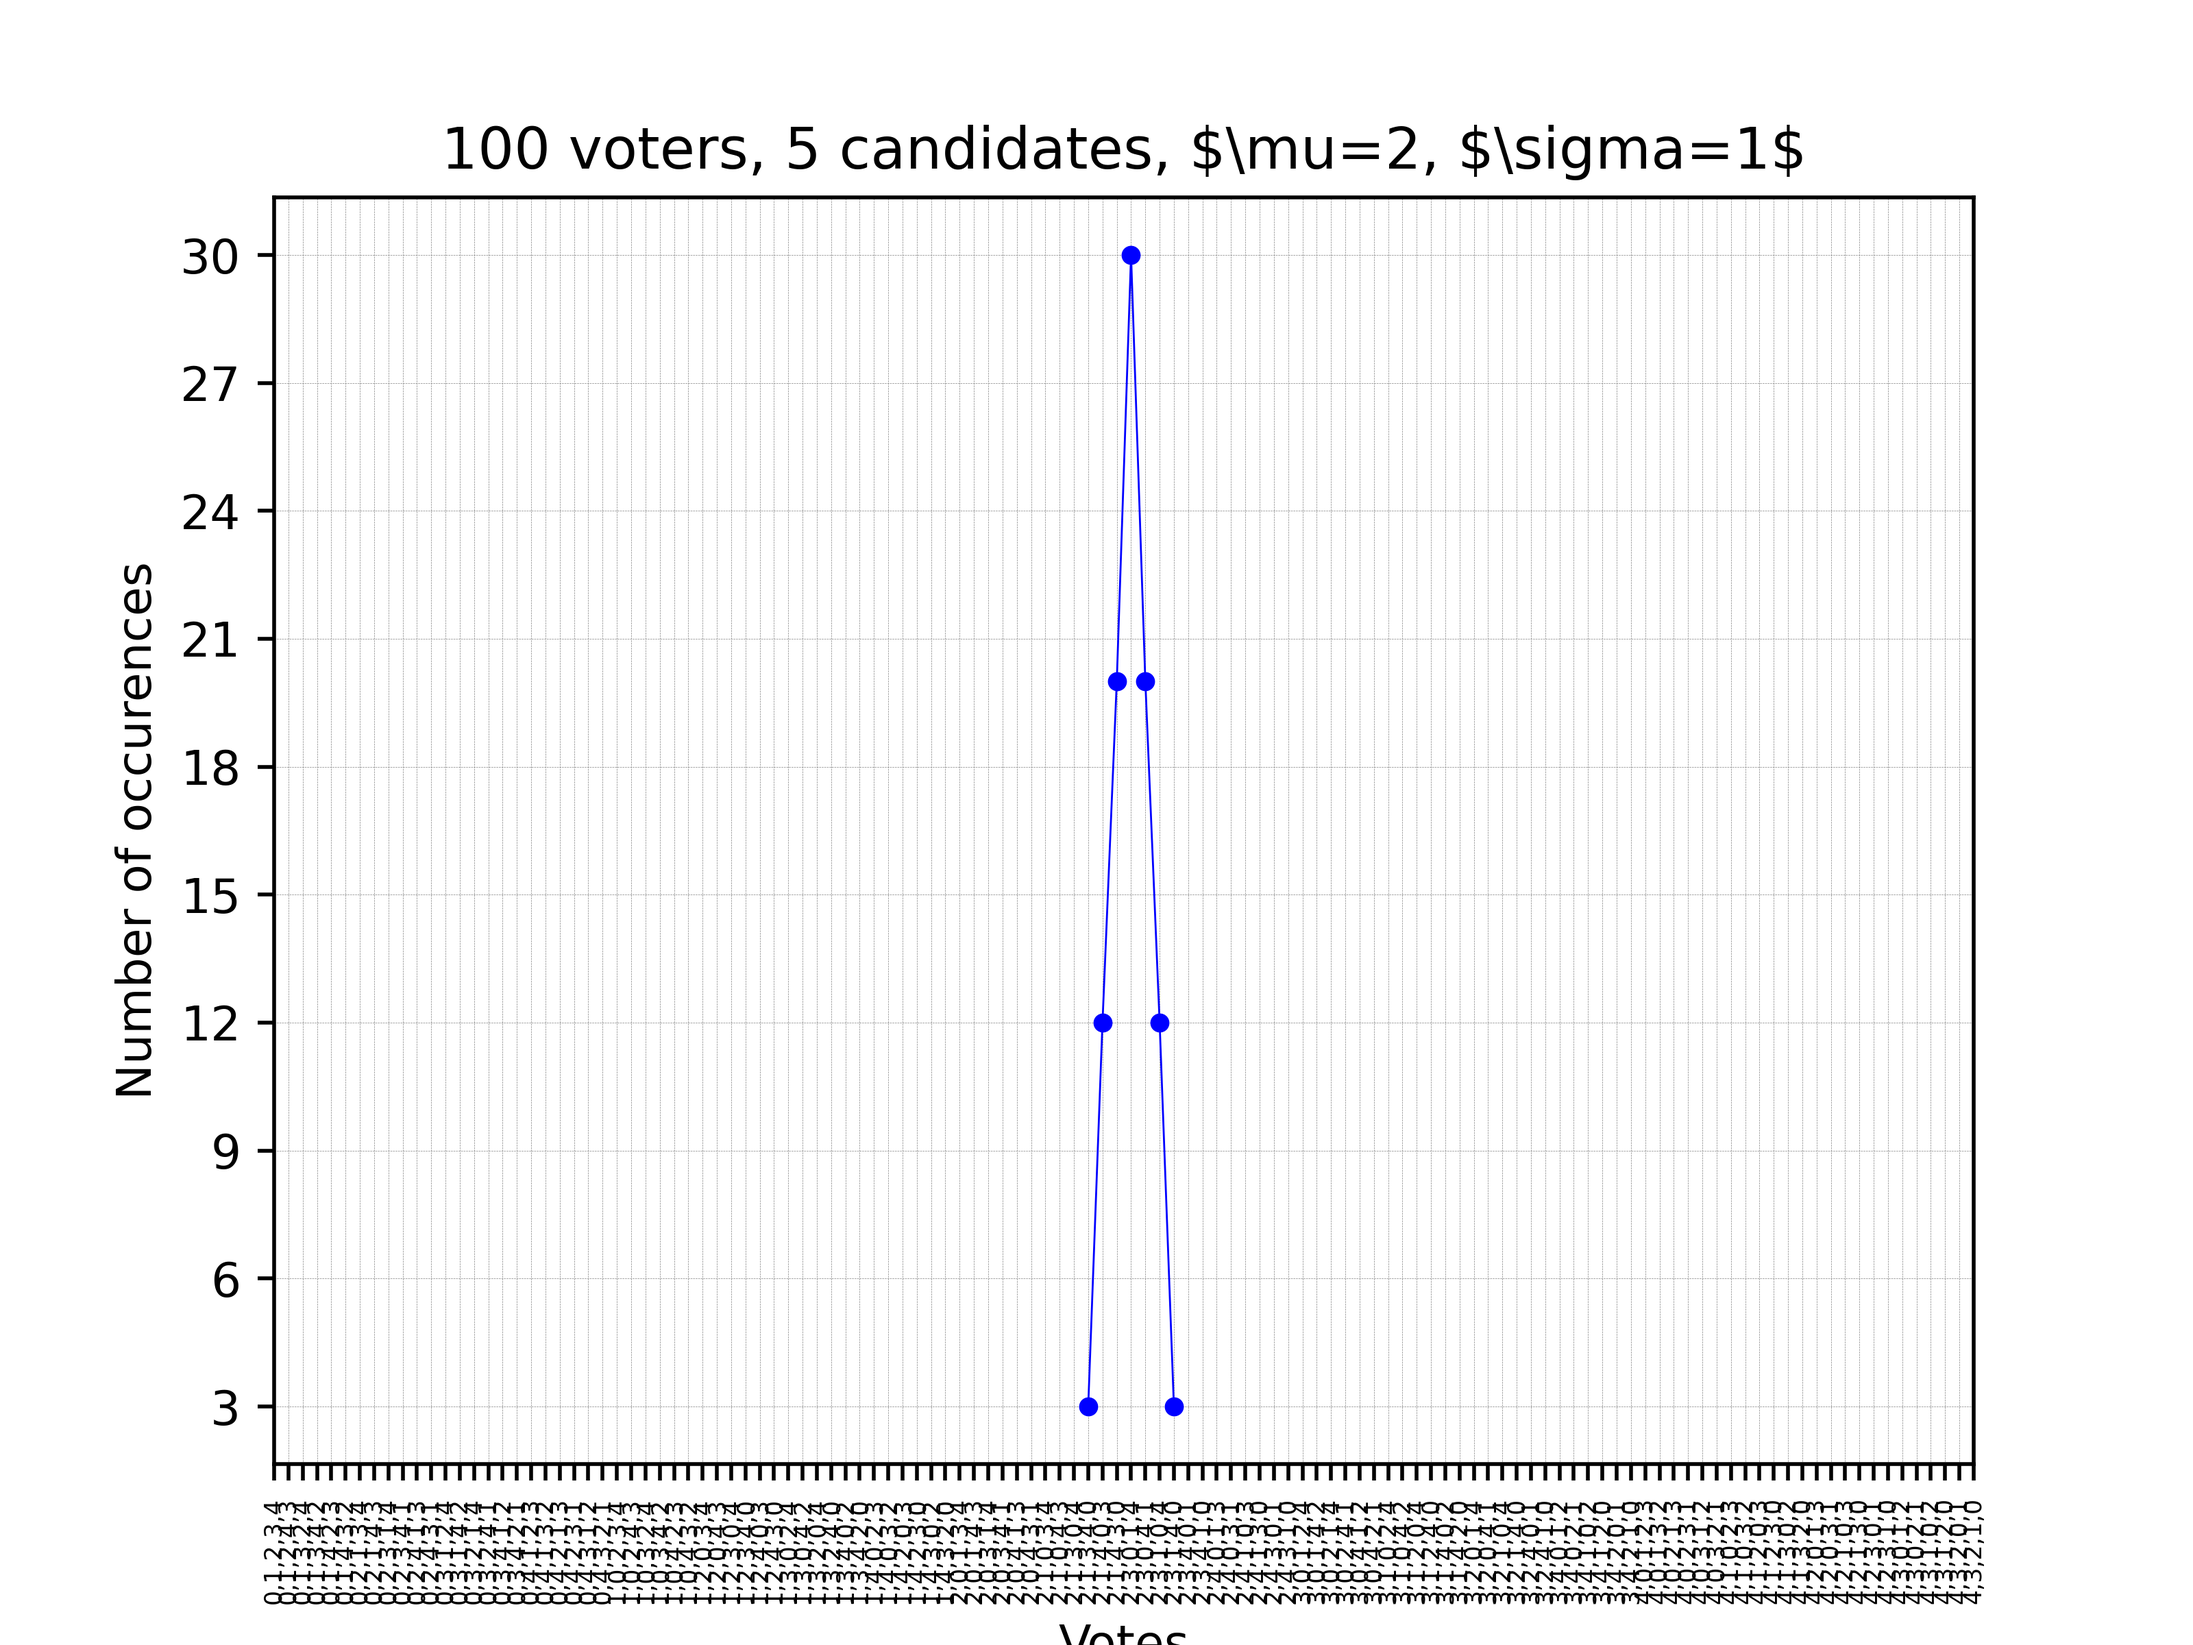
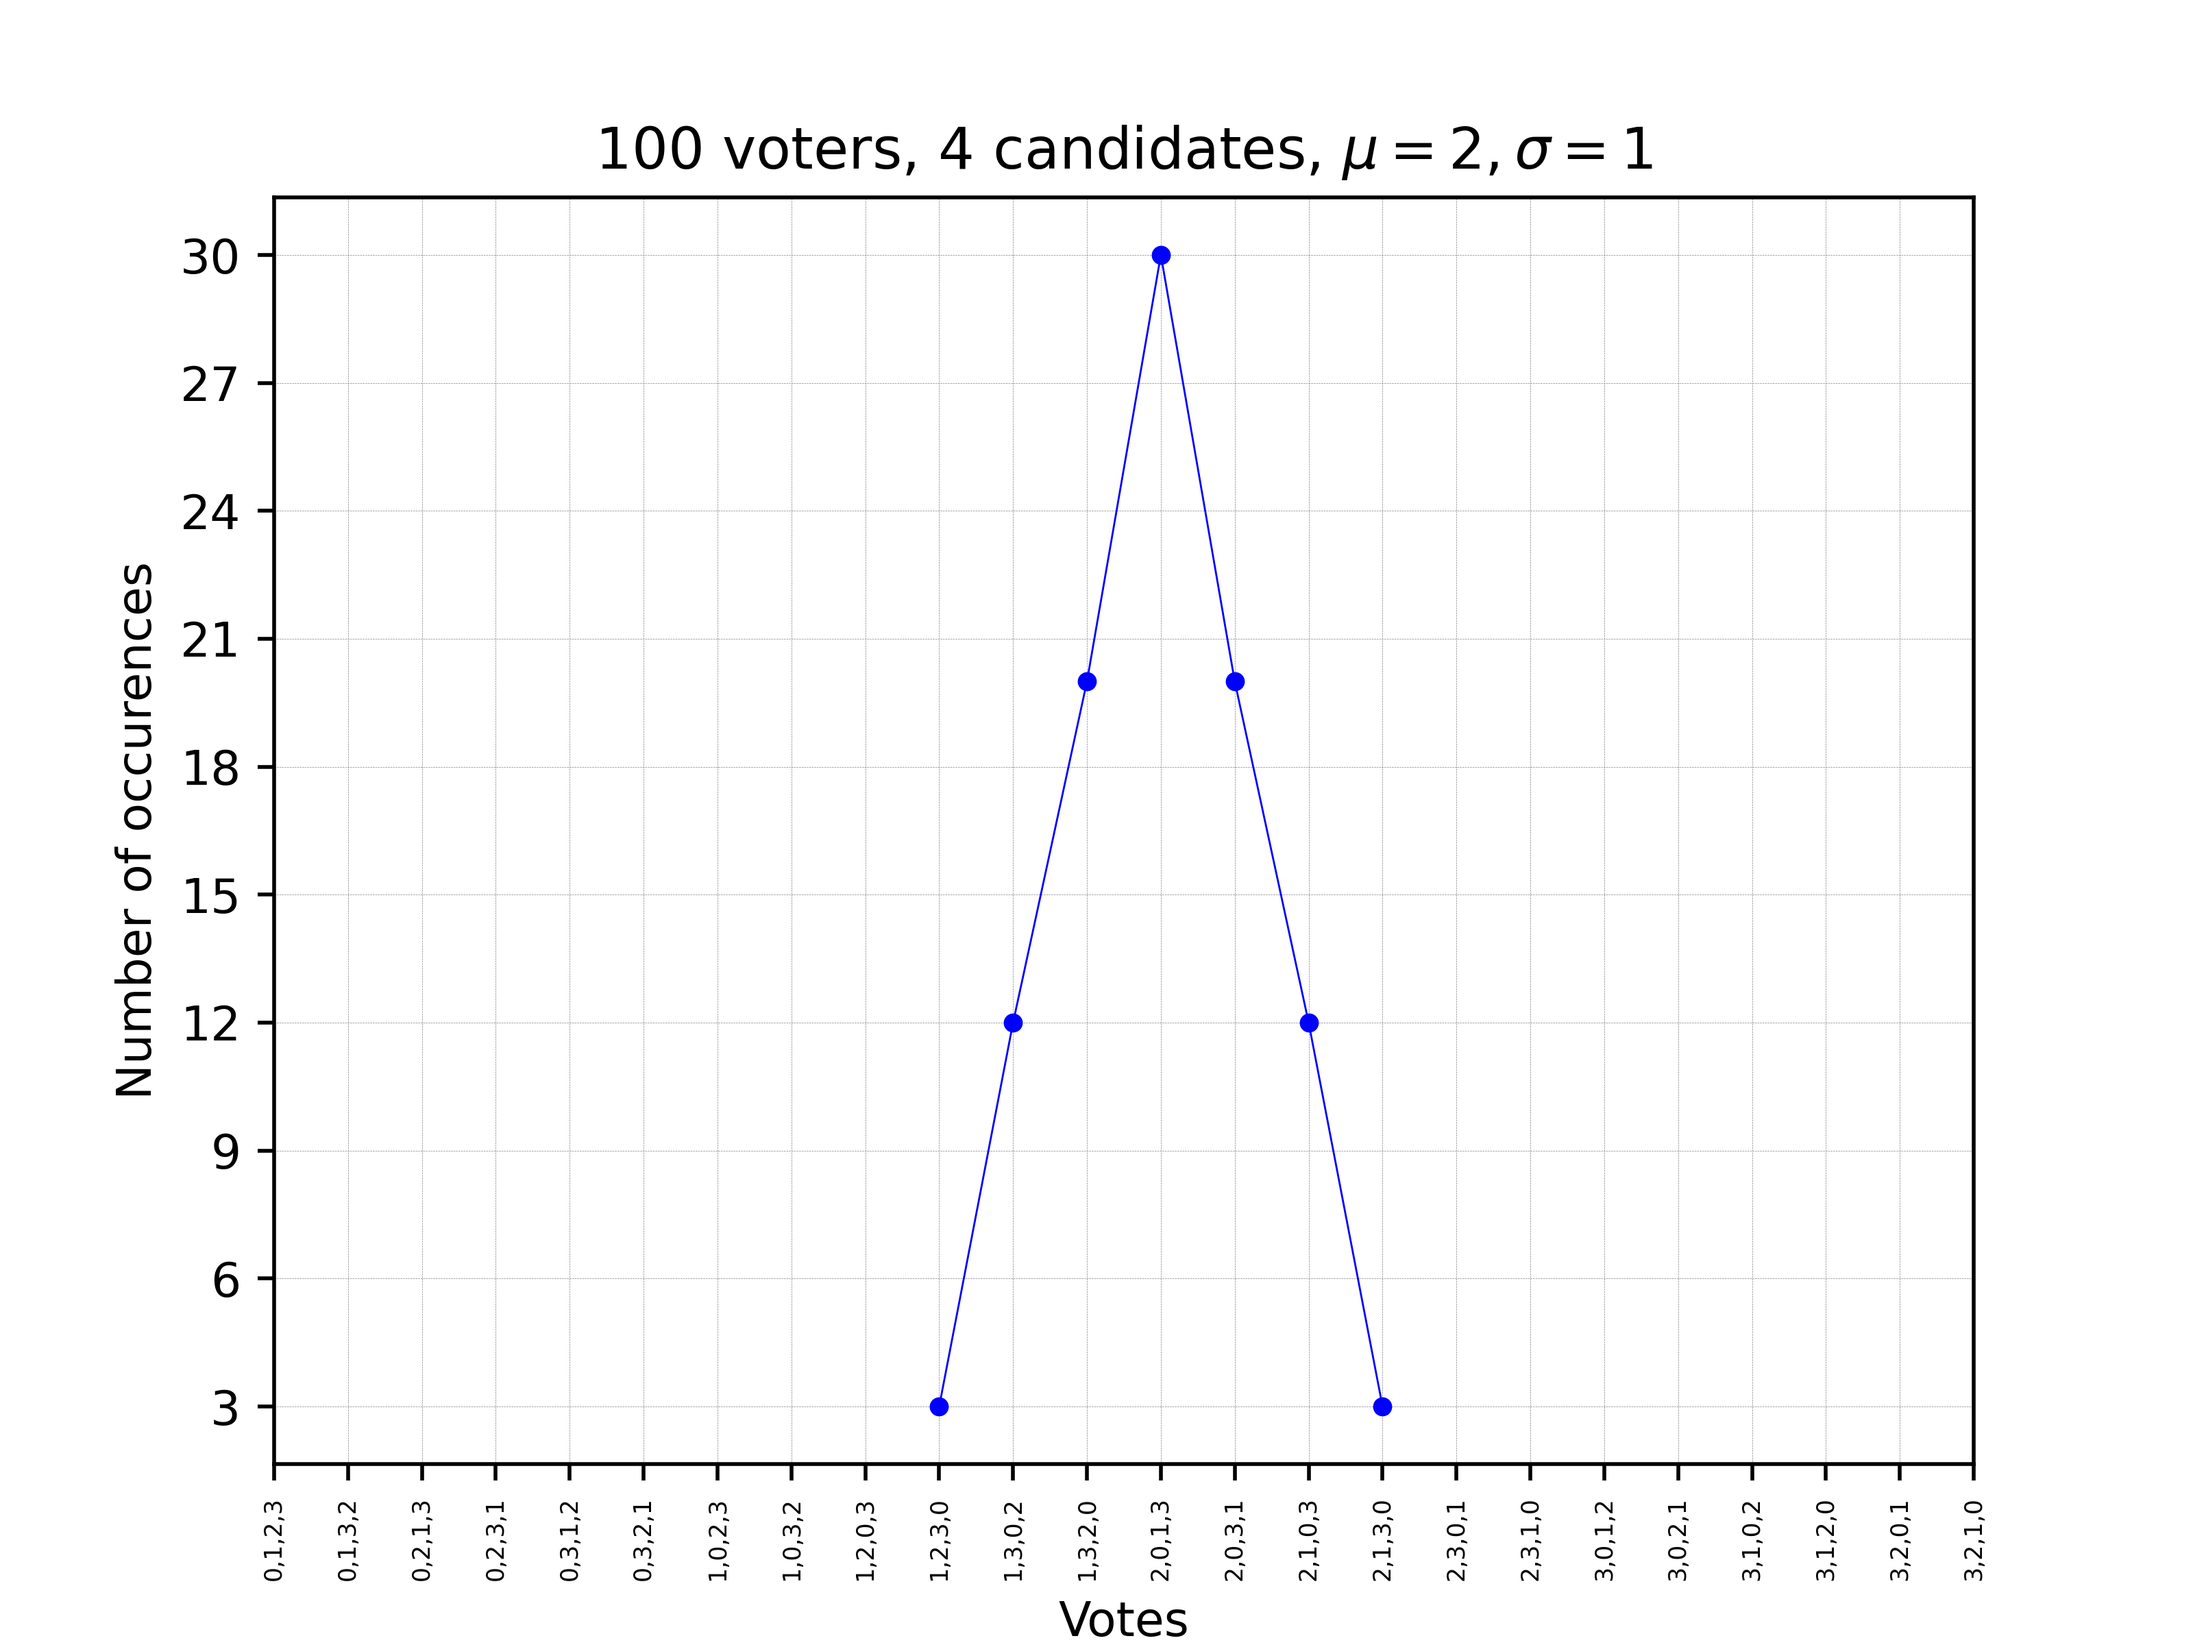
Fix latex rendering, add test statement to dirichlet distribution, add docstrings

diff --git a/compsoc/voter_model.py b/compsoc/voter_model.py
@@ -61,7 +61,7 @@ def generate_gaussian_votes(mu: float,
         plt.ylabel('Number of occurences')
         ax.set_xticklabels(map(int_list_to_str, ballot_permutations))
         ax.yaxis.set_major_locator(MaxNLocator(integer=True))
-        plt.title(rf'{num_voters} voters, {num_candidates} candidates, $\mu={mu}, $\sigma={stdv}$')
+        plt.title(rf'{num_voters} voters, {num_candidates} candidates, $\mu={mu}, \sigma={stdv}$')
         plt.savefig('figures/Votes_gaussian_distribution.png', format='png', dpi=500)
     return ballots
 
@@ -73,7 +73,7 @@ def generate_multinomial_dirichlet_votes(alpha: Tuple[float, ...],
     Generates a list of pairs (count, vote) from a Dirichlet Multinomia model of voters.
     """
     if len(alpha) != num_candidates:
-        raise ValueError(f"Alpha should have {num_candidates} values, but has {len(alpha)}")
+        raise ValueError(f'Alpha should have {num_candidates} values, but has {len(alpha)}')
     candidates = list(range(num_candidates))
     p = np.random.dirichlet(alpha, size=1).tolist()[0]
     votes = [tuple(np.random.choice(candidates, size=num_candidates, replace=False, p=p))
@@ -101,17 +101,17 @@ def get_pairs_from_model(num_candidates: int, num_voters: int, voters_model: str
     """
     Generates a list of pairs (count, vote) from a model of voters.
     """
-    if voters_model == "multinomial_dirichlet":
+    if voters_model == 'multinomial_dirichlet':
         # The population hyperparam should be set according the competition goals.
         # alpha = (1.1, 2.5, 3.8, 2.1, 1.3)
         # Random alphas might cause precision problems with the generation of P, when values are
         # small
         alpha = tuple(np.random.rand(1, num_candidates)[0])
         pairs = generate_multinomial_dirichlet_votes(alpha, num_voters, num_candidates)
-    elif voters_model == "gaussian":
+    elif voters_model == 'gaussian':
         mu, stdv = 2, 1  # Depends on 'num_voters'
         pairs = generate_gaussian_votes(mu, stdv, num_voters, num_candidates)
-    elif voters_model == "random":
+    elif voters_model == 'random':
         pairs = generate_random_votes(num_voters, num_candidates)
     else:
         pairs = generate_random_votes(num_voters, num_candidates)

diff --git a/tests/test_voter_model.py b/tests/test_voter_model.py
@@ -1,3 +1,6 @@
+"""
+Test the voter model functions.
+"""
 import unittest
 from itertools import permutations
 from typing import List, Tuple
@@ -13,13 +16,17 @@ from compsoc.voter_model import (
 # Helper function to validate generated ballots
 def validate_ballots(ballots: List[Tuple[int, Tuple[int, ...]]], num_voters: int,
                      num_candidates: int) -> bool:
-    total_voters = sum([count for count, _ in ballots])
-    unique_votes = set([vote for _, vote in ballots])
+    total_voters = sum(count for count, _ in ballots)
+    unique_votes = set(vote for _, vote in ballots)
     all_permutations = set(permutations(range(num_candidates)))
     return total_voters == num_voters and unique_votes.issubset(all_permutations)
 
 
 class TestVoterModel(unittest.TestCase):
+    """
+    Test the voter model functions.
+    """
+
     def test_generate_random_votes(self):
         num_voters = 100
         num_candidates = 4
@@ -27,13 +34,23 @@ class TestVoterModel(unittest.TestCase):
         self.assertTrue(validate_ballots(ballots, num_voters, num_candidates))
 
     def test_generate_gaussian_votes(self):
+        """
+        Test the Gaussian voter model with a known distribution.
+        """
         num_voters = 100
         num_candidates = 4
         mu, stdv = 2, 1
+        expected_ballots = [(3, (1, 2, 3, 0)), (12, (1, 3, 0, 2)), (20, (1, 3, 2, 0)),
+                            (30, (2, 0, 1, 3)), (20, (2, 0, 3, 1)), (12, (2, 1, 0, 3)),
+                            (3, (2, 1, 3, 0))]
         ballots = generate_gaussian_votes(mu, stdv, num_voters, num_candidates, plot_save=False)
+        self.assertEqual(ballots, expected_ballots)
         self.assertTrue(validate_ballots(ballots, num_voters, num_candidates))
 
     def test_generate_multinomial_dirichlet_votes(self):
+        """
+        Test the Multinomial Dirichlet voter model with a known distribution.
+        """
         num_voters = 100
         alpha_candidates = (1.1, 2.5, 3.8)
         num_candidates = len(alpha_candidates)
